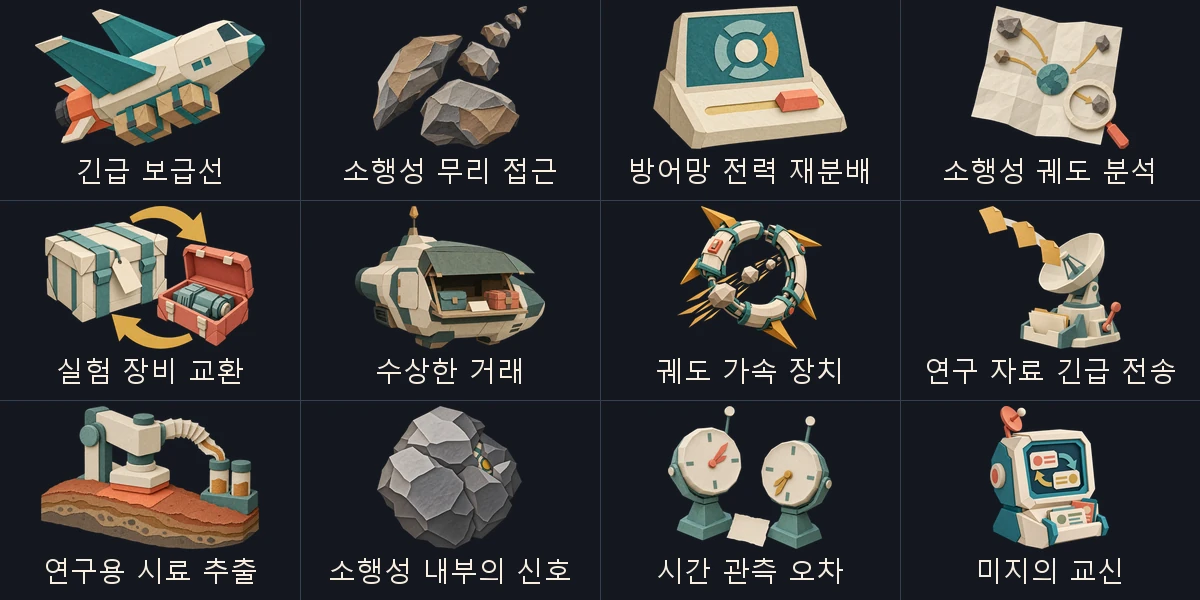
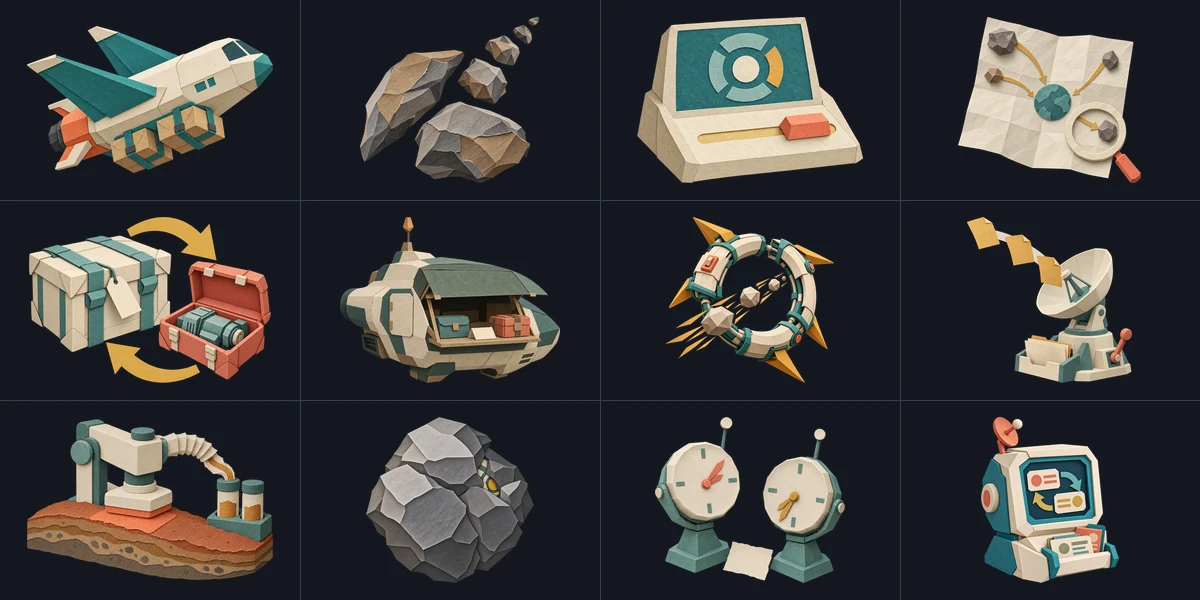
Remove labels from the event illustration board

diff --git a/index.html b/index.html
@@ -85,7 +85,7 @@
           <figcaption><h4>미사일 추진 불꽃</h4><p>기본형과 속도 강화 1·2·3단계의 추진 불꽃을 4프레임씩 배치했습니다.</p></figcaption>
         </figure>
         <figure>
-          <div class="asteroid-art-media"><img src="art-event-illustrations.webp" width="1200" height="600" loading="lazy" decoding="async" alt="긴급 보급선, 소행성 무리 접근, 방어망 전력 재분배, 소행성 궤도 분석, 실험 장비 교환, 수상한 거래, 궤도 가속 장치, 연구 자료 긴급 전송, 연구용 시료 추출, 소행성 내부의 신호, 시간 관측 오차, 미지의 교신의 대표 일러스트"></div>
+          <div class="asteroid-art-media"><img src="art-event-illustrations.webp?v=art-only" width="1200" height="600" loading="lazy" decoding="async" alt="긴급 보급선, 소행성 무리 접근, 방어망 전력 재분배, 소행성 궤도 분석, 실험 장비 교환, 수상한 거래, 궤도 가속 장치, 연구 자료 긴급 전송, 연구용 시료 추출, 소행성 내부의 신호, 시간 관측 오차, 미지의 교신의 대표 일러스트"></div>
           <figcaption><h4>이벤트 대표 일러스트</h4><p>웨이브 사이에 등장하는 이벤트 12종의 대표 그림입니다.</p></figcaption>
         </figure>
       </div>
